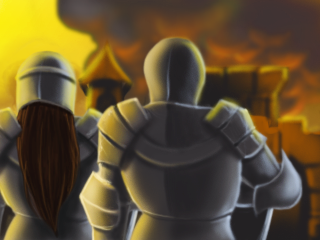
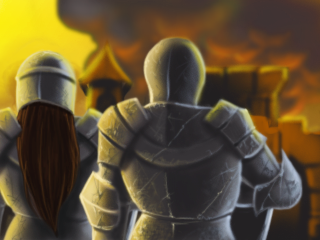
better artwork fixing surrender dialog so that hitting accept wins the game fixing walk button to resensitize when as we select armies in the stack fixing paths going into newly conquered cities that aren't ours anymore fixing vectoring so that the next-turn and turn-after look correct all of the ti

diff --git a/src/vectoredunitlist.h b/src/vectoredunitlist.h
@@ -19,6 +19,7 @@
 #include "ObjectList.h"
 #include <sigc++/trackable.h>
 
+class City;
 /** An object list which keeps track of all vectoredunits. It cannot do much more than
   * saving and loading the elements. Implemented as a singleton again.
   */
@@ -44,14 +45,17 @@ class VectoredUnitlist : public std::list<VectoredUnit*>, public sigc::trackable
 	//! When destination cities get conquered, this list needs to be 
 	//! cleaned up.
         void removeVectoredUnitsGoingTo(Vector<int> pos);
+        void removeVectoredUnitsGoingTo(City *c);
 
 	//! When source cities get conquered, this list needs to be 
 	//! cleaned up.
         void removeVectoredUnitsComingFrom(Vector<int> pos);
+        void removeVectoredUnitsComingFrom(City *c);
 
 	//! When showing info we need to know who's going to where.
 	//! vectored is filled up with the results.
         void getVectoredUnitsGoingTo(Vector<int> pos, std::list<VectoredUnit*>& vectored);
+	void getVectoredUnitsGoingTo(City *c, std::list<VectoredUnit*>& vectored);
 
 	//! When showing info we need to know who's coming from where.
 	//! vectored is filled up with the results.

diff --git a/src/game.cpp b/src/game.cpp
@@ -821,8 +821,9 @@ void Game::update_control_panel()
 
   if (stack)
     {
-      can_move_selected_stack_along_path.emit(stack->getPath()->size() > 0
-					      && stack->enoughMoves());
+      can_move_selected_stack_along_path.emit
+	(stack->getPath()->size() > 0 && stack->enoughMoves() ||
+	 (stack->getPath()->size() && stack->getMovesExhaustedAtPoint() > 0));
 
       /*
        * a note about searching.
@@ -1341,7 +1342,7 @@ void Game::nextRound()
 	      if (cl->countCities(*it) > target_level)
 		{
 		  GameScenario::s_surrender_already_offered = 1;
-		  if (enemy_offers_surrender(plist->countPlayersAlive() - 1))
+		  if (enemy_offers_surrender.emit(plist->countPlayersAlive() - 1))
 		    {
 		      surrender_answered.emit(true);
 		      game_over.emit(*it);
@@ -1352,5 +1353,16 @@ void Game::nextRound()
 	    }
 	}
     }
-
+}
+    
+void Game::recalculate_moves_for_stack(Stack *s)
+{
+  if (!s)
+    s = Playerlist::getActiveplayer()->getActivestack();
+  if (s)
+    {
+      s->getPath()->recalculate(s);
+      redraw();
+      update_control_panel();
+    }
 }

diff --git a/src/vectoredunitlist.cpp b/src/vectoredunitlist.cpp
@@ -174,6 +174,47 @@ void VectoredUnitlist::removeVectoredUnitsComingFrom(Vector<int> pos)
 	}
     }
 }
+void VectoredUnitlist::removeVectoredUnitsGoingTo(City *c)
+{
+  iterator it = begin();
+  iterator nextit = it;
+  nextit++;
+  for (; nextit != end(); it++, nextit++)
+    {
+      if (c->contains((*it)->getDestination()))
+	{
+	  erase(it);
+	  it = nextit;
+	  nextit++;
+	}
+    }
+}
+
+void VectoredUnitlist::removeVectoredUnitsComingFrom(City *c)
+{
+  iterator it = begin();
+  iterator nextit = it;
+  nextit++;
+  for (; nextit != end(); it++, nextit++)
+    {
+      if (c->contains((*it)->getPos()))
+	{
+	  erase(it);
+	  it = nextit;
+	  nextit++;
+	}
+    }
+}
+void VectoredUnitlist::getVectoredUnitsGoingTo(City *c, std::list<VectoredUnit*>& vectored)
+{
+  for (iterator it = begin(); it != end(); it++)
+    {
+      if (c->contains((*it)->getDestination()))
+	{
+	  vectored.push_back(*it);
+	}
+    }
+}
 void VectoredUnitlist::getVectoredUnitsGoingTo(Vector<int> pos, std::list<VectoredUnit*>& vectored)
 {
   for (iterator it = begin(); it != end(); it++)

diff --git a/src/path.cpp b/src/path.cpp
@@ -141,8 +141,29 @@ void Path::recalculate (Stack* s)
 {
   if (size() == 0)
     return;
-  Vector<int> *dest = back();
-  calculate(s, *dest);
+
+  // be careful to not go into cities that are now owned by the enemy
+  reverse_iterator it = rbegin();
+  for (; it != rend(); it++)
+    {
+      Vector<int> dest = **it;
+      City *c = Citylist::getInstance()->getObjectAt(dest.x, dest.y);
+      if (c && c->getPlayer() != s->getPlayer())
+	continue;
+      else
+	break;
+    }
+  if (it == rend())
+    {
+      //well, it looks like all of our points were in enemy cities
+      s->setMovesExhaustedAtPoint(0);
+      flClear();
+    }
+  else
+    {
+      Vector<int> dest = **it;
+      calculate(s, dest);
+    }
   return;
 }
 

diff --git a/src/gui/game-window.cpp b/src/gui/game-window.cpp
@@ -1264,7 +1264,7 @@ void GameWindow::on_army_toggled(Gtk::ToggleButton *toggle, Army *army)
   ensure_one_army_button_active();
   on_stack_info_changed(s);
   group_ungroup_toggle->set_sensitive(true);
-  s->getPath()->recalculate(s);
+  game->recalculate_moves_for_stack(s);
 }
 
 void GameWindow::on_group_toggled(Gtk::ToggleButton *toggle)
@@ -1275,7 +1275,7 @@ void GameWindow::on_group_toggled(Gtk::ToggleButton *toggle)
     currently_selected_stack->ungroup();
   else
     currently_selected_stack->group();
-  currently_selected_stack->getPath()->recalculate(currently_selected_stack);
+  game->recalculate_moves_for_stack(currently_selected_stack);
   update_army_buttons();
 }
 

diff --git a/src/GameMap.cpp b/src/GameMap.cpp
@@ -527,7 +527,8 @@ Vector<int> GameMap::findPlantedStandard(Player *p)
             for (std::list<Item*>::iterator it = items.begin(); 
                  it != items.end(); it++)
               {
-                if ((*it)->isPlantable() && (*it)->getPlantableOwner() == p)
+                if ((*it)->isPlantable() && (*it)->getPlantableOwner() == p &&
+		    (*it)->getPlanted() == true)
                   {
                     pos.x = x;
                     pos.y = y;

diff --git a/src/city.cpp b/src/city.cpp
@@ -327,10 +327,9 @@ void City::conquer(Player* newowner)
     deFog(newowner);
 
     VectoredUnitlist *vul = VectoredUnitlist::getInstance();
-    vul->removeVectoredUnitsComingFrom(d_pos);
-    vul->removeVectoredUnitsGoingTo(d_pos);
+    vul->removeVectoredUnitsComingFrom(this);
+    vul->removeVectoredUnitsGoingTo(this);
 }
-
 
 void City::randomlyImproveOrDegradeArmy(Army *army)
 {

diff --git a/src/gui/destination-dialog.cpp b/src/gui/destination-dialog.cpp
@@ -236,7 +236,7 @@ void DestinationDialog::fill_in_vectoring_info()
 
   //show the units that are arriving into this city
   vectored.clear();
-  vul->getVectoredUnitsGoingTo(city->getPos(), vectored);
+  vul->getVectoredUnitsGoingTo(city, vectored);
   int count = 0;
   Gtk::Image *image = next_turn_1_image;
   for (it = vectored.begin(); it != vectored.end(); it++)

diff --git a/src/game.h b/src/game.h
@@ -78,6 +78,7 @@ class Game
     void move_selected_stack_southeast();
     void move_all_stacks();
     void end_turn();
+    void recalculate_moves_for_stack(Stack *s);
 
     void startGame(); // initiate game flow
     void loadGame();
